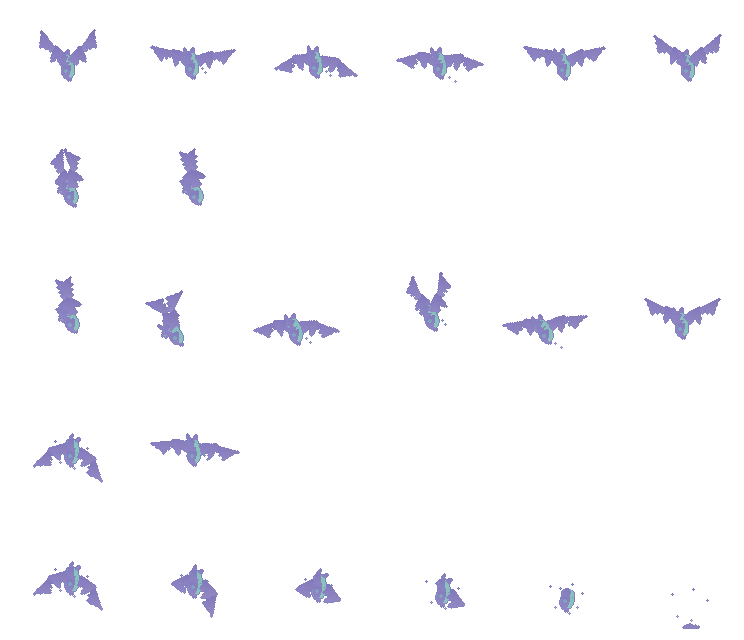
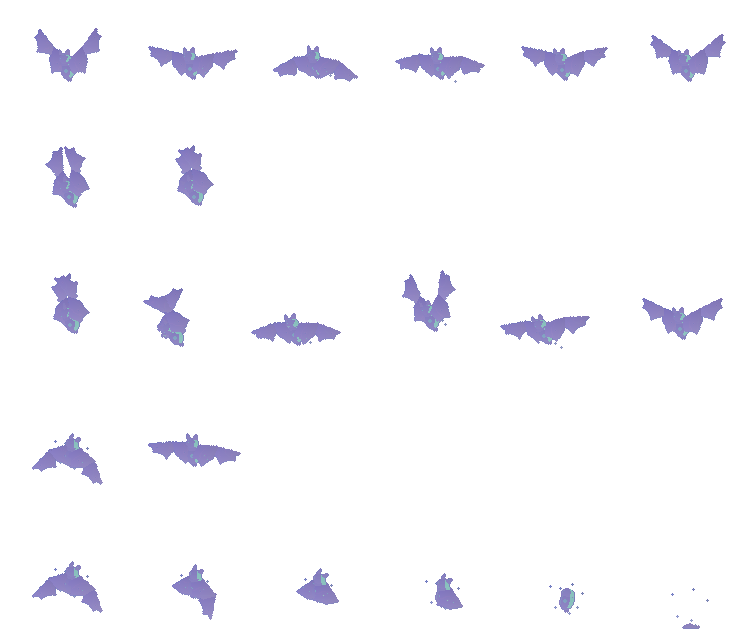
art: F2-CRIA2b — cinder_bat y candle_mite legibles contra la sala (C13); plan al día
- cinder_bat: alas redibujadas, membrana llena con festones y borde cálido; contraste a 1/4 0,024 → 0,081–0,125.
- candle_mite: caparazón mayor, +2 pasos y canto cálido; cuerpo 0,007 → 0,083–0,107.
- Dos fotogramas por criatura siguen bajo 0,10 a 1/4: se resuelve con C19 (muro tras x 350) en F2-SALA.
Evidencia y diario en docs/reviews/v04/personajes/f2_cria2b/. PLAN_ARTE refleja el cierre del bloque.

Claude-Session: https://claude.ai/code/session_01QNUS8YfdZMMBUQPTLseeFn

diff --git a/docs/reviews/v04/personajes/f2_cria2b/diario.md b/docs/reviews/v04/personajes/f2_cria2b/diario.md
@@ -1,0 +1,57 @@
+# F2-CRIA2b · Diario (C13 `cinder_bat`, `candle_mite`)
+
+## C13 · `cinder_bat`: membrana con masa
+- Problema medido: alas de membrana fina, en rampa `rock_soot` 4/5 (valor ~0,20–0,27), casi igual que la piedra del arco y el ladrillo
+  que tiene detrás (x 350). Era una figura del mismo valor que su fondo.
+- Alas v2, redibujadas como losas ASCII nuevas (`IN` 19×24, `OUT` 23×21). Las saqué de un trazado de polígono con festones entre
+  las puntas de los dedos y luego las retoqué a mano. La membrana está llena y baja hasta el tobillo, como en un murciélago real.
+  Hay 3 dedos desde la muñeca, borde de ataque de 1 px, una vena de brasa por tramo y un agujero quemado con labio encendido.
+- Valor: la membrana pasa a `rock_soot` 1, una mancha oscura, y el borde de ataque a `rock_soot` 6, un canto cálido que dibuja la
+  silueta. Los dedos van en `rock_soot` 5. El ala lejana queda un paso por debajo (membrana 1, dedos y borde 3). El pelaje gris
+  (`soot`), la cara, los ojos y los colmillos sellados no cambian. Así el cuerpo sigue separado de las alas.
+- La envergadura no cambia en lo esencial (+4 px por ala). Atlas completo revisado (`atlas_cinder_bat.png`): reposo, telegrafía
+  con alas plegadas, ataque en dos pasadas, golpe y muerte en pavesas. Nada se recorta en el lienzo de 124×128.
+- Probé el pelaje en `smoke` (un paso más oscuro). Daba sólo +0,004 de Δ y se perdía la separación entre cuerpo y alas, así que
+  lo revertí.
+
+## C13 · `candle_mite`: cuerpo que se separe del suelo
+- Caparazón v2: 18×10, antes 16×8. Tiene 2 filas más de lomo abombado y pasa de cuero 1/3/4 a **cuero 3/4/5 con canto cálido 6**
+  en la fila superior. Es el sel-out cálido de C13 y suma +2 pasos.
+- Cabeza +2 pasos (cuero 3/5/6). El ojo de brasa sigue sellado.
+- La vela se retrasa 2 px (hueso `candle` (1,-4) → (3,-4)) para que el lomo se vea delante de ella; antes la cera tapaba el
+  caparazón.
+- Patas, mandíbulas y antenas pasan de `boot` a `leather`, un material más claro de la misma familia. Es un cambio de material de
+  la pieza, no un recoloreado para crear contenido.
+- Atlas revisado (`atlas_candle_mite.png`): telegrafía, salto, golpe, estallido de la mecha y charco sin roturas.
+
+## Medida de contraste (gris, criterio de §4.1)
+Método: localizo la criatura en la captura ajustando el borde de alfa de cada fotograma de reposo horneado al color `OUTLINE` de
+la captura. Después repito `test_da.thumbnail_separation`: luminancia media de la figura frente a un anillo de 2 celdas a 1/4
+(160×90). El anillo excluye cualquier celda que toque la figura. También mido a resolución nativa con un anillo de 3 px.
+- «Antes»: `18b_hero_death` del recorrido, con el atlas de HEAD. «Después»: 12 capturas a 70 ms del mismo combate (piso 4,
+  bat/moth/mite), que cubren los 6 fotogramas de reposo.
+
+| Medida | Antes 1/4 (nativo) | Después 1/4 por fotograma f0…f5 | Después nativo |
+|---|---|---|---|
+| `cinder_bat` entero | **0,024** (0,047) | 0,081 · 0,108 · 0,125 · 0,108 · 0,106 · 0,089 (media **0,103**) | 0,109–0,147 |
+| `candle_mite` sin cera ni llama | **0,007** (0,016) | 0,106 · 0,106 · 0,107 · 0,083 · 0,087 · 0,107 | 0,107–0,127 |
+| `candle_mite` entero | 0,154 (0,184) | 0,200–0,219 | 0,232–0,253 |
+
+El valor de la figura del murciélago queda fijo en ~0,137. Lo que oscila es el anillo: con las alas arriba (f0, f5) toca el muro
+más oscuro (0,216 frente a 0,24–0,26). Para el ácaro, el «sin cera ni llama» excluye por color los píxeles de `linen` y `fire`.
+
+## Evidencia
+- `tools/qa.sh bake --only=cinder_bat,candle_mite`: 2 horneadas, 0 errores. `tools/qa.sh all`: juego 1745/0, arte 5 suites/0.
+- En esta carpeta:
+  - `antes_despues_combate.png`: arriba el 18b de antes, abajo el combate de después.
+  - `gris_1de4_antes_despues.png`: miniatura en grises a 1/4, ampliada ×4.
+  - `combate_murcielago_acaro.png`: captura completa.
+  - `hoja_*_qa.png` y `atlas_*.png`.
+- Recorrido completo (`SHOTS_DIR=/tmp/claude-0/shots_cria2b`): sin fallos. Sólo sale el `ERR_CANT_OPEN` de audio, ya conocido.
+
+## No comprobado / pendiente
+- A 1/4 no todo pasa de 0,10: el murciélago con alas arriba (f0 0,081; f5 0,089) y el cuerpo del ácaro en f3/f4, el fotograma
+  en que baja 1 px (0,083/0,087). A resolución nativa todo pasa de 0,10. Para llegar en todos los fotogramas haría falta oscurecer
+  el pelaje o la membrana hasta el paso 0, y eso borra el contorno. Otra vía es bajar 1 paso el muro tras x 350 (C19, F2-SALA).
+- Sólo he medido la sala del piso 4 (variante del arco). En otras variantes de sala no está medido.
+- Ataque y muerte de las dos criaturas: vistos en atlas, no en juego.

diff --git a/docs/PLAN_ARTE.md b/docs/PLAN_ARTE.md
@@ -14,10 +14,10 @@ Se trabaja en la nube (Linux) desde la rama `main-0nvhs9`: ver `CLAUDE.md`.
 | F2-CRIA | Correcciones de la prueba ciega y `ash_glutton` rehecho | `creature-artist` | `scripts/art/defs/creatures/**`, `assets/baked/creatures/**`, `scripts/data/enemy_db.gd` | hecho, a falta de la nota de F2-REV |
 | F2-REV | Revisión del corte con capturas; nota ≥ 8 por familia | `art-director` | `docs/reviews/v04/director/` | hecho: heroína 6,5, criaturas 6,4, jefe 2,5, sala 7,5, Forja 8,5, cartas 6,5, HUD 7, efectos 6, vida 6,5, conjunto 6,5. No pasa |
 | F2-BASE | Revisión medida (composición, escala, legibilidad, pixel art) con script reproducible | `art-director` | `docs/reviews/v04/director/f2_base/` | hecho: ejes 7 / 6 / 7,5 / 7; HUD baja a 6,5 |
-| F2-VIDA | Orden del golpe, destello, muerte, Quemadura, resplandor, brasas, reposo, HUD (C1, C2, C4, C6, C11, C15, C16, C18, C20) + nuevos de F2-BASE (Mini ×2, rejilla, banda de jefe, rótulos) | `art-integrator` | `combat_screen.gd`, `fighter_view.gd`, `scripts/ui/world/fx/**`, `light_rig.gd`, `palette_lit`, `scripts/ui/hud/**`, `ui.gd` | en curso (relanzado) |
-| F2-HERO | Poses del martillo, muerte, cabeza del martillo (C3, C4, C14); altura 74 px | `creature-artist` | `scripts/art/defs/hero/**`, su horneado | en curso (relanzado) |
-| F2-ILUS | Limpieza de color, iconos, composición, títulos (C8, C10, C17) y títulos a la rejilla | `card-illustrator` | `scripts/art/cards/**`, `CardView` | en curso (relanzado) |
-| F2-CRIA2 | `ash_slime`, `soot_golem`, `cinder_bat`, `candle_mite` (C5, C12, C13) | `creature-artist` | criaturas | tras F2-HERO |
+| F2-VIDA | Orden del golpe, destello, muerte, Quemadura, resplandor, brasas, reposo, HUD (C1, C2, C4, C6, C11, C15, C16, C18, C20) + nuevos de F2-BASE (Mini ×2, rejilla, banda de jefe, rótulos) | `art-integrator` | `combat_screen.gd`, `fighter_view.gd`, `scripts/ui/world/fx/**`, `light_rig.gd`, `palette_lit`, `scripts/ui/hud/**`, `ui.gd` | hecho (`cartas_ui/f2_vida/`); quedan alfa en `cards_box` y texto flotante, botón de música 1 px |
+| F2-HERO | Poses del martillo, muerte, cabeza del martillo (C3, C4, C14); altura 74 px | `creature-artist` | `scripts/art/defs/hero/**`, su horneado | hecho (`personajes/f2_hero/`); muerte no vista en movimiento |
+| F2-ILUS | Limpieza de color, iconos, composición, títulos (C8, C10, C17) y títulos a la rejilla | `card-illustrator` | `scripts/art/cards/**`, `CardView` | hecho (`cartas_ui/f2_ilus/`); mano a paso 162; `23_cards` no muestra las 4 nuevas |
+| F2-CRIA2 | `ash_slime`, `soot_golem`, `cinder_bat`, `candle_mite` (C5, C12, C13) | `creature-artist` | criaturas | hecho en dos tandas (`personajes/f2_cria2/`, `f2_cria2b/`); limo oscuro sobre el suelo; murciélago y ácaro < 0,10 de contraste a 1/4 en 2 fotogramas (pide C19) |
 | F2-JEFE | `great_bellows` en rig (C9) | `creature-artist` | `scripts/art/defs/bosses/**` | tras F2-CRIA2 |
 | F2-SALA | Ritmo del ladrillo y rejilla (C19) | `world-artist` | `scripts/art/bg/**`, `assets/baked/rooms/**` | tras F2-JEFE |
 | F2-REV2 | Segunda revisión; ≥ 8 por familia | `art-director` | `docs/reviews/v04/director/` | al final |
